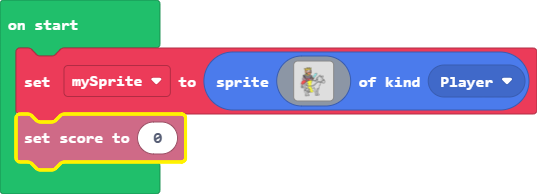
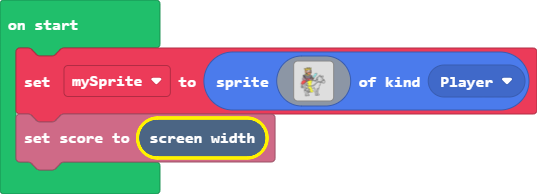
Update main.blocks, main.ts

Changed region(s): [[0.0, 0.5567, 0.5363, 0.8969]]

diff --git a/main.ts b/main.ts
@@ -160,4 +160,4 @@ let mySprite = sprites.create(img`
     ..................................................................................................................................
     ..................................................................................................................................
     `, SpriteKind.Player)
-info.setScore(0)
+info.setScore(scene.screenWidth())
